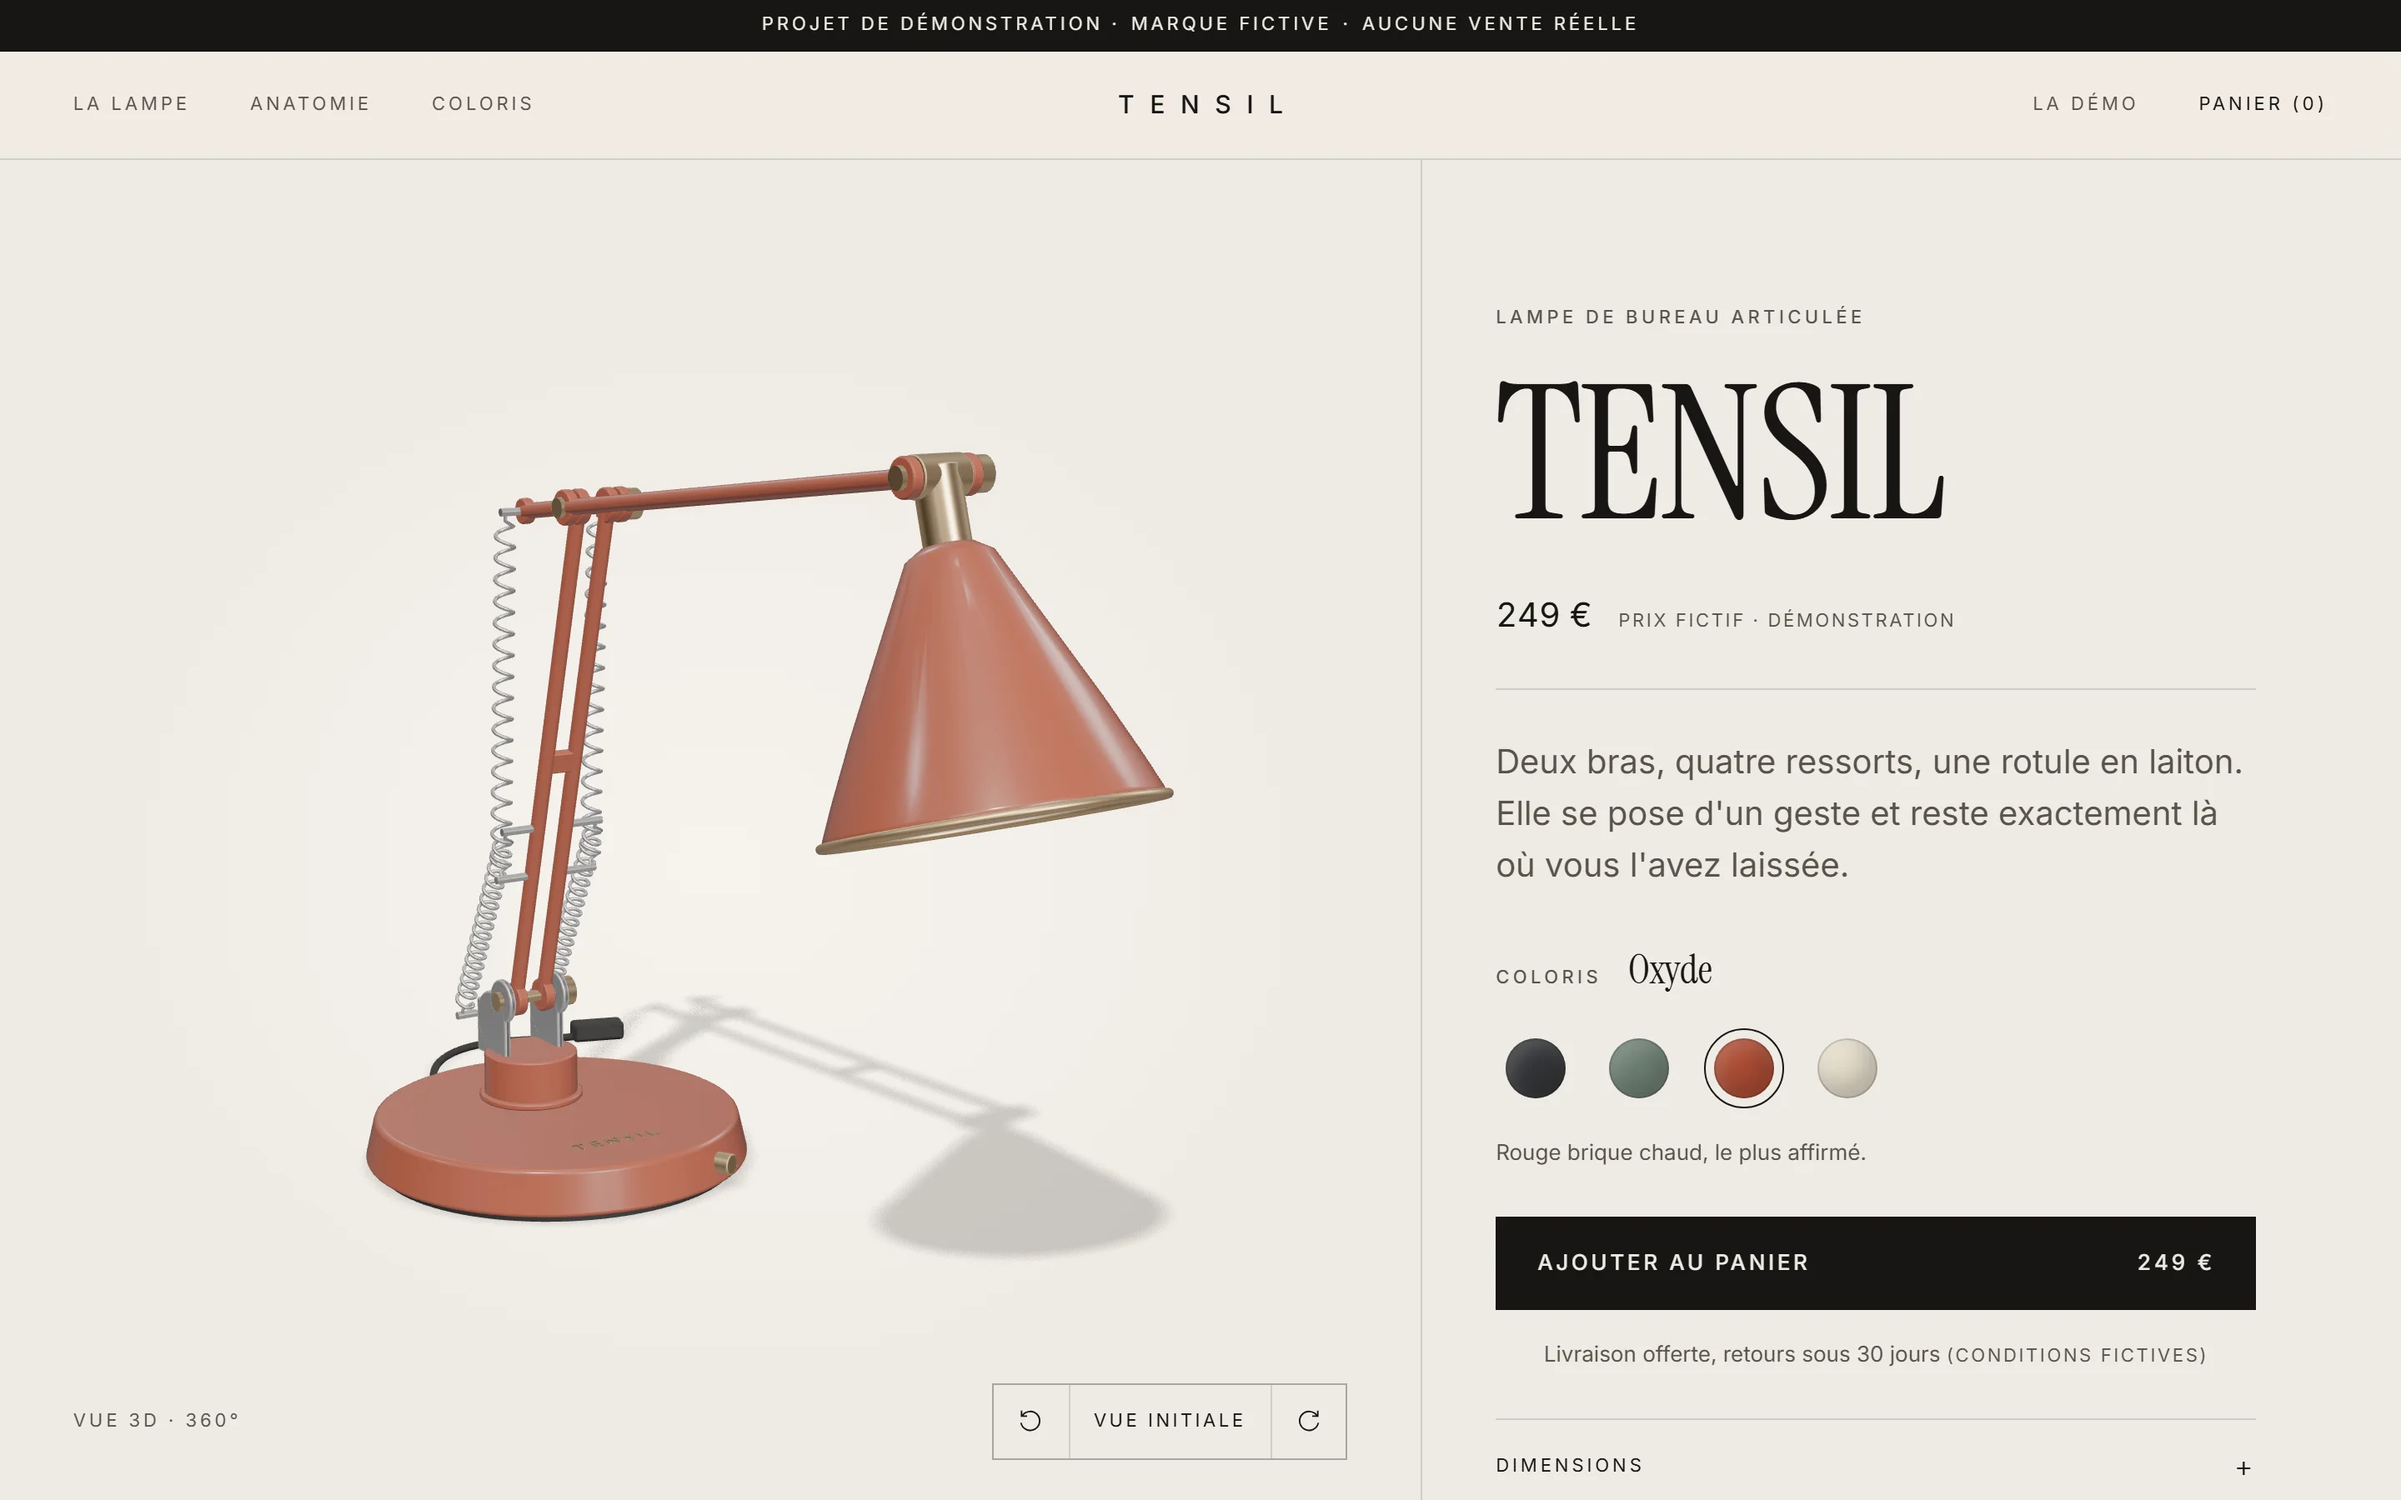
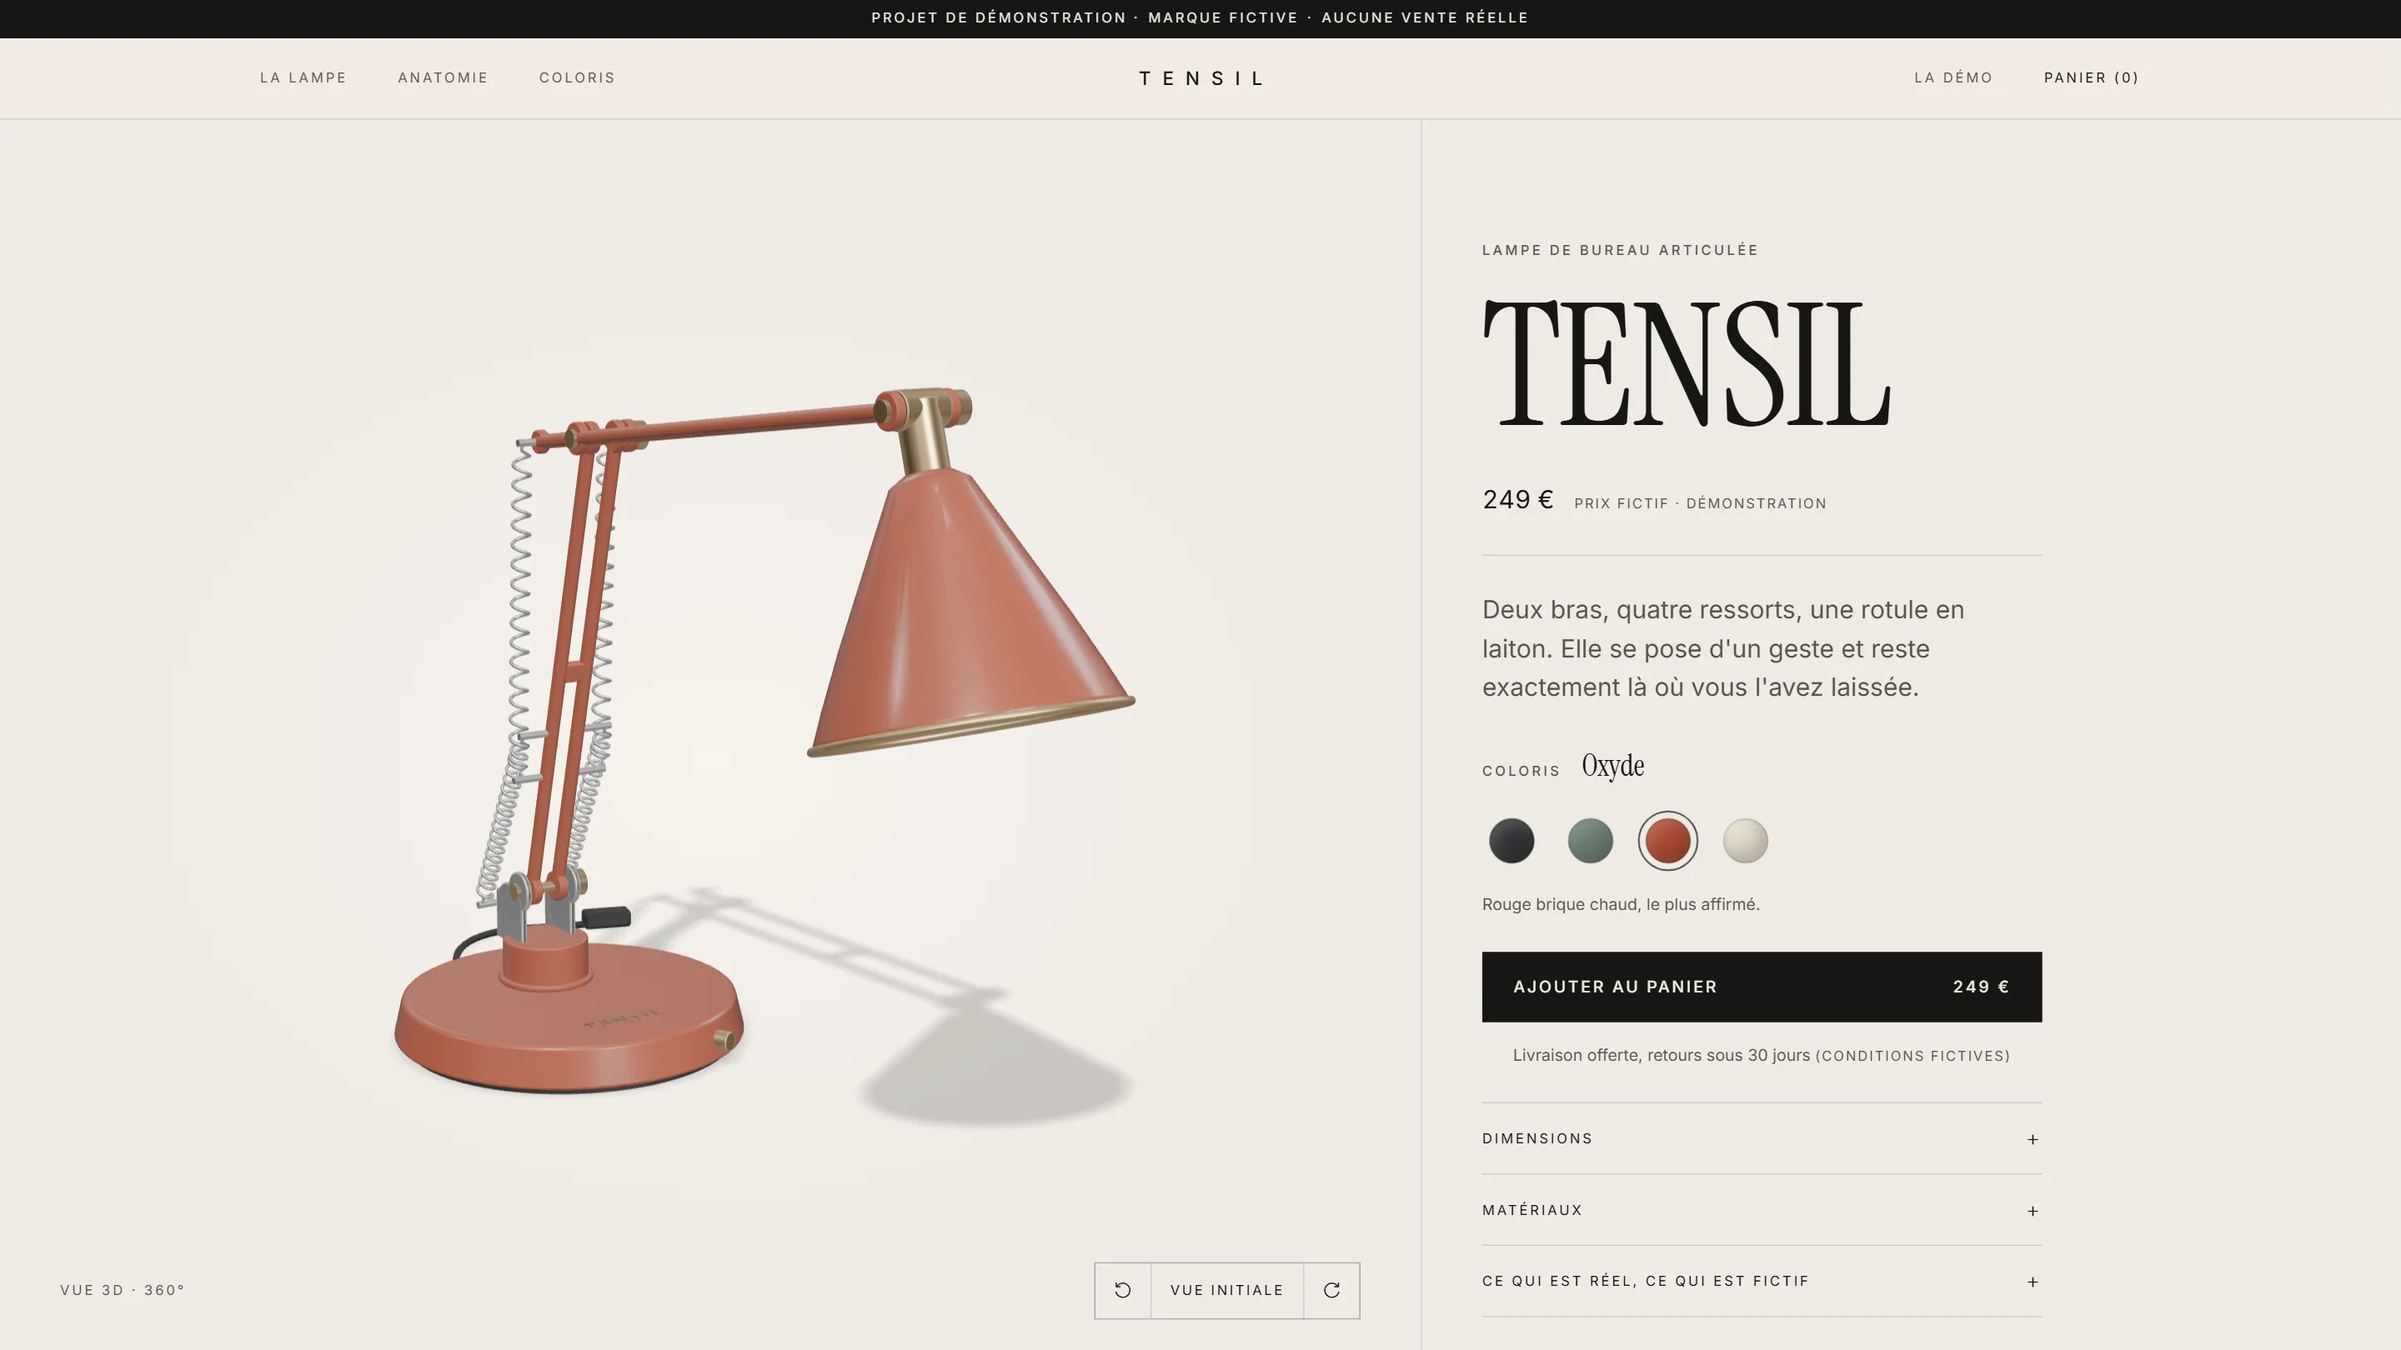
docs: 16:9 portfolio screenshots
All captures are 2880x1620. Short sections are extended with their own
background, scroll positions avoid cutting text at either edge, and the
mobile screens are composed side by side on a 16:9 board.

diff --git a/docs/PORTFOLIO.md b/docs/PORTFOLIO.md
@@ -2,7 +2,7 @@
 
 - [x] Titre + accroche
 - [x] Visuel de couverture : `docs/screenshots/01-produit.webp`
-- [x] Captures optimisées : `docs/screenshots/*.webp` (Retina, 31 à 108 Ko), régénérables avec `npm run screenshots`
+- [x] Captures optimisées : `docs/screenshots/*.webp`, toutes en 16:9 (2880×1620), régénérables avec `npm run screenshots`
 - [x] Résumé étude de cas : ci-dessous et [CASE_STUDY.md](CASE_STUDY.md)
 - [x] Lien dépôt : https://github.com/elie-gordo/website-redesign
 - [x] Lien démo : https://tensil-store.vercel.app
@@ -40,7 +40,7 @@ Une boutique mono-produit pour une lampe imaginée en 3D : vue à 360° en quatr
 | Galerie | `04-nuit.webp` | Section sombre, rendu allumé |
 | Galerie | `05-coloris.webp` | Les quatre coloris |
 | Galerie | `06-commande-erreurs.webp` | Formulaire, résumé d'erreurs, récapitulatif |
-| Galerie | `07-mobile-produit.webp`, `08-mobile-panier.webp` | Mobile : vue 3D, tiroir panier |
+| Galerie | `07-mobile.webp` | Trois écrans mobiles : vue 3D, tiroir panier, erreurs de commande |
 | Interaction à filmer (optionnel) | — | Changement de coloris sur la 3D en rotation |
 
 ## Contrôle final (prévu vs produit)

diff --git a/README.md b/README.md
@@ -56,7 +56,7 @@ BASE_URL=https://tensil-store.vercel.app npm run test:e2e   # mêmes tests sur l
 npm run screenshots  # captures du portfolio dans docs/screenshots/ (`npm run preview` avant)
 ```
 
-Les captures sont cadrées sur les limites réelles des sections (et non au défilement), en `prefers-reduced-motion` pour un rendu identique à chaque exécution : desktop 1440 px ×2, mobile iPhone 13 ×3.
+Toutes les captures sont en **16:9 (2880×1620)**, en `prefers-reduced-motion` pour un rendu identique à chaque exécution : fenêtre 1920×1080 ×1,5, sections cadrées sur leurs limites réelles (une section plus courte que le cadre est complétée par sa propre couleur de fond), position de défilement choisie pour qu'aucun bord ne coupe un texte. Les écrans mobiles (iPhone 13) sont réunis côte à côte sur une planche 16:9.
 
 ### Régénérer les assets 3D (optionnel)
 Nécessite Blender 5.2 et le dépôt `blender-studio-object` cloné à côté de celui-ci. Les scripts du dépôt lampe sont réutilisés **sans modification**.
